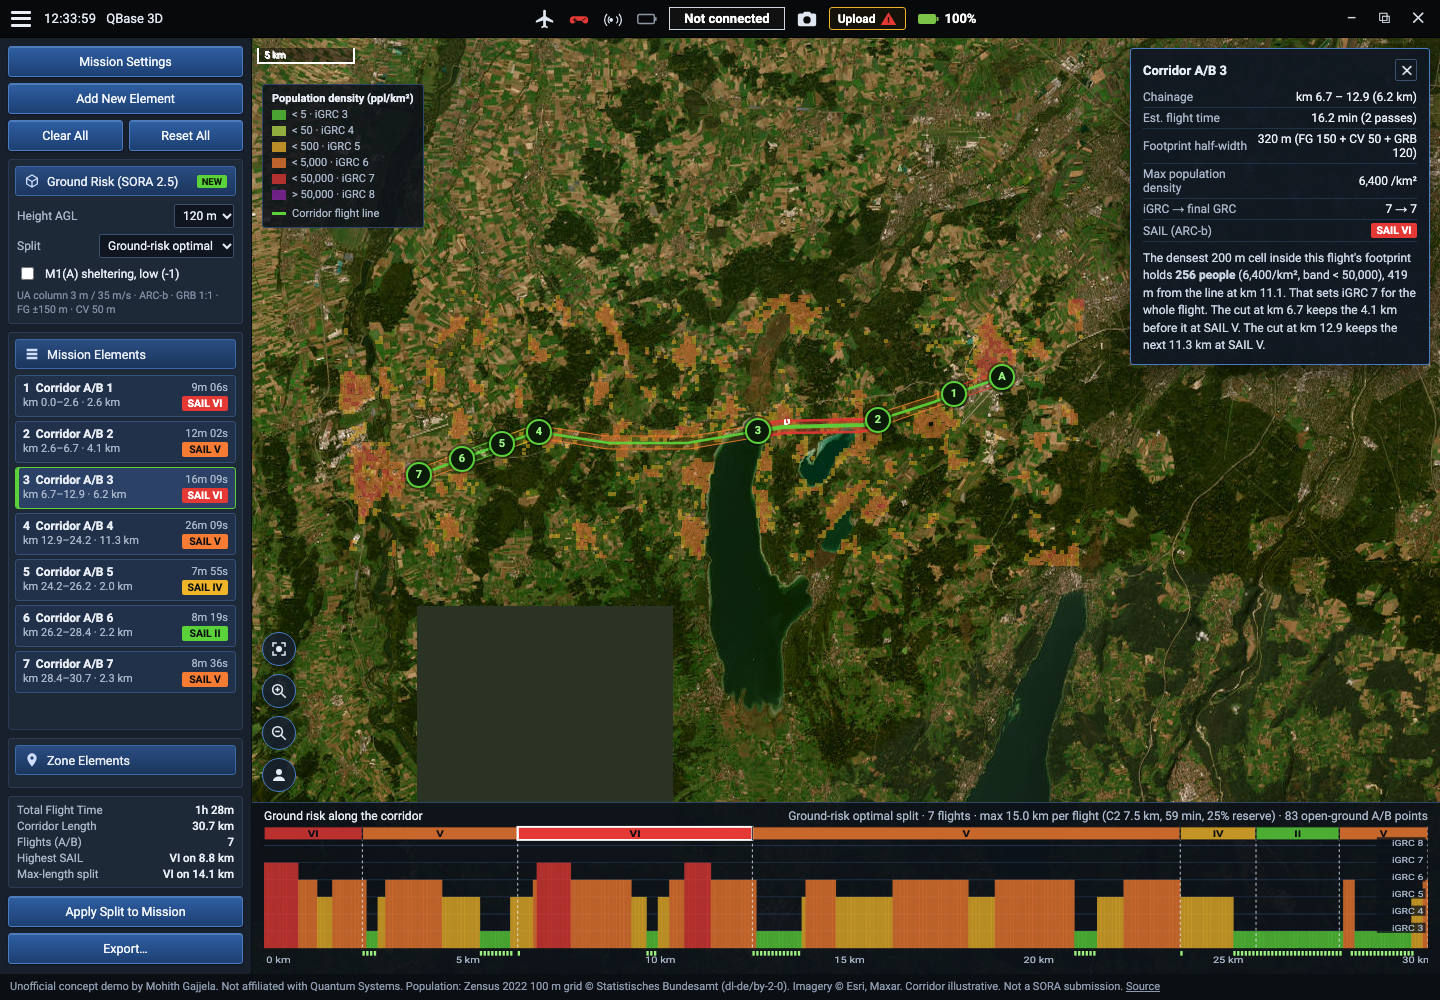
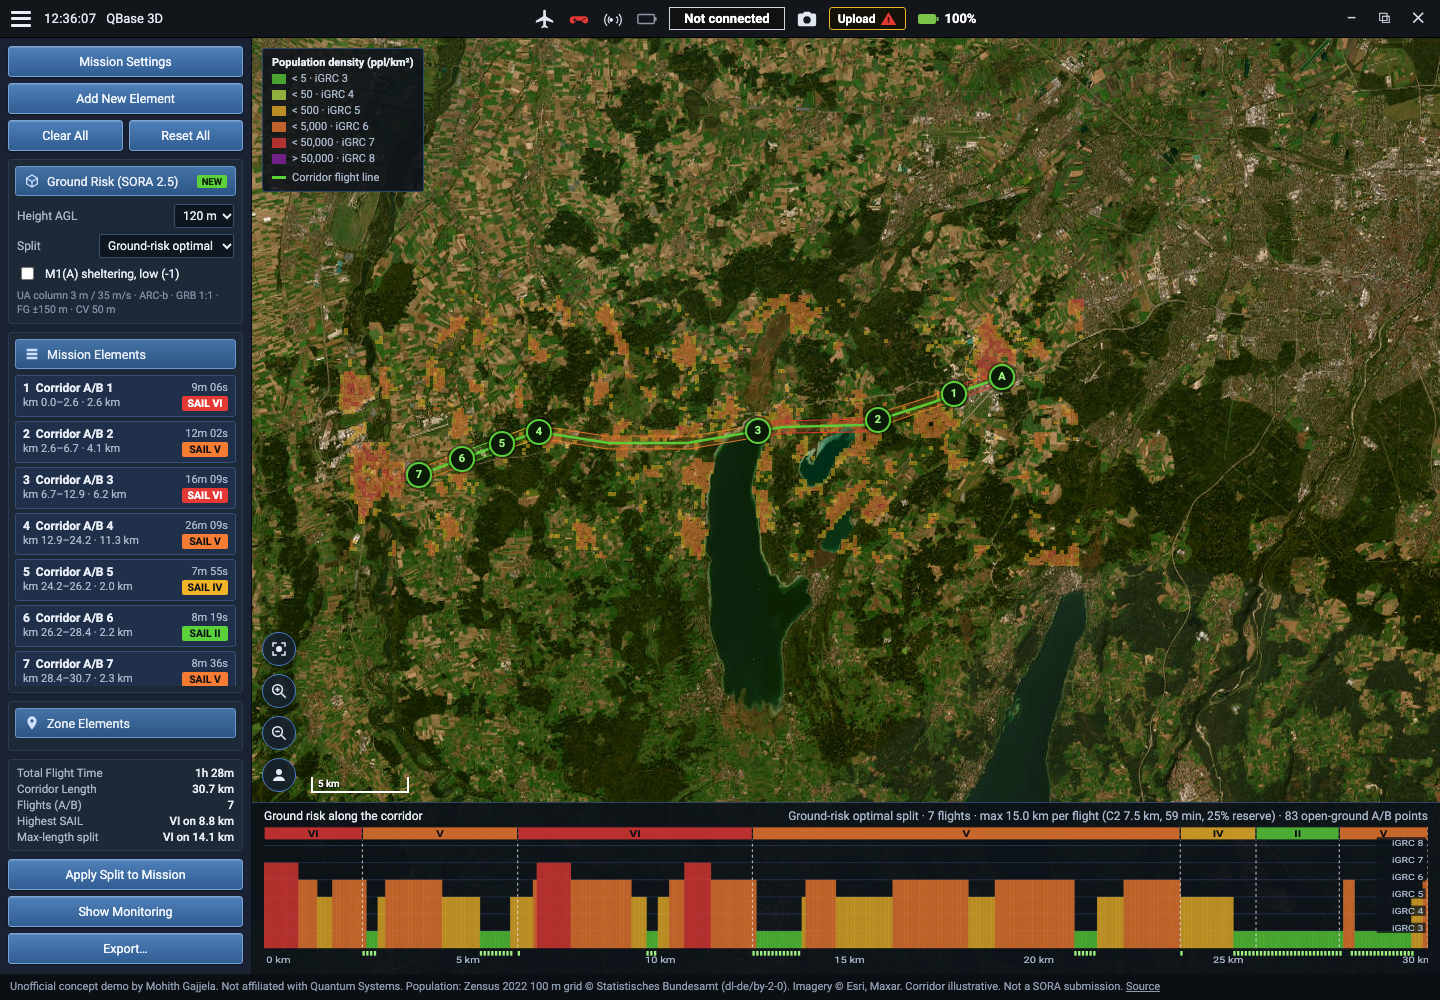
Match QBase 3D colours, scale bar and panel buttons

diff --git a/styles.css b/styles.css
@@ -2,14 +2,14 @@
    (optron.com QBase_photo_05): black title bar, dark navy planning panel with
    bevelled blue buttons and element cards, green mission geometry on imagery. */
 :root {
-  --title: #08090b;
-  --panel: #18202c;
+  --title: #12161b;
+  --panel: #1a2133;
   --panel-2: #1e2938;
-  --card: #22314a;
+  --card: #20304a;
   --card-hi: #2b4166;
-  --btn-1: #2f5fa3;
-  --btn-2: #1d3f72;
-  --btn-bd: #4a7cc4;
+  --btn-1: #4f80b8;
+  --btn-2: #305d92;
+  --btn-bd: #79a2d4;
   --txt: #e8edf5;
   --txt-2: #a9b6c9;
   --green: #5bd23a;
@@ -51,7 +51,7 @@ button, select, input { font: inherit; color: inherit; }
 .qb.on { background: linear-gradient(180deg, #3f8a2c, #2a6a1c); border-color: #6cc24a; }
 .grp { background: var(--panel-2); border: 1px solid #2b3a52; border-radius: 3px; padding: 6px; }
 .grp.grow { flex: 1; min-height: 160px; display: flex; flex-direction: column; }
-.grp-h { display: flex; align-items: center; gap: 7px; background: linear-gradient(180deg, #2a4d82, #1b355d); border: 1px solid #3c68a8; padding: 6px 8px; border-radius: 3px; font-size: 12.5px; margin-bottom: 6px; }
+.grp-h { display: flex; align-items: center; gap: 7px; background: linear-gradient(180deg, #4473a6, #2c5584); border: 1px solid #6b97cc; padding: 6px 8px; border-radius: 3px; font-size: 12.5px; margin-bottom: 6px; }
 .grp-h svg { width: 16px; height: 16px; color: #cfe0ff; }
 .new { margin-left: auto; font-size: 9.5px; font-weight: 700; color: #0b1a07; background: var(--green); padding: 1px 5px; border-radius: 2px; }
 .gr { display: flex; flex-direction: column; gap: 6px; padding: 2px 2px 0; }
@@ -105,3 +105,6 @@ button, select, input { font: inherit; color: inherit; }
 .leaflet-control-scale-line { background: rgba(0,0,0,.45); color: #fff; border-color: #fff; }
 .mk { width: 26px; height: 26px; border-radius: 50%; background: #0c1a08; border: 2px solid var(--green); color: var(--green-2); font-weight: 700; font-size: 11px; display: grid; place-items: center; box-shadow: 0 0 0 2px rgba(0,0,0,.4); }
 :focus-visible { outline: 2px solid var(--green); outline-offset: 1px; }
+.leaflet-bottom.leaflet-left { bottom: 176px; left: 54px; }
+.leaflet-control-scale-line { background: transparent; color: #fff; border: 2px solid #fff; border-top: 0; font-weight: 500; text-shadow: 0 1px 2px #000; }
+.legend { top: 10px; }

diff --git a/index.html b/index.html
@@ -53,7 +53,7 @@
           <div class="grp-h"><svg viewBox="0 0 24 24"><path d="M12 2a7 7 0 0 0-7 7c0 5 7 13 7 13s7-8 7-13a7 7 0 0 0-7-7zm0 9.5A2.5 2.5 0 1 1 12 6.5a2.5 2.5 0 0 1 0 5z" fill="currentColor"/></svg>Zone Elements</div>
         </section>
         <div class="totals" id="totals"></div>
-        <div class="btns"><button class="qb wide" id="apply">Apply Split to Mission</button><button class="qb wide" id="exportBtn" aria-haspopup="menu">Export…</button>
+        <div class="btns"><button class="qb wide" id="apply">Apply Split to Mission</button><button class="qb wide" data-soon>Show Monitoring</button><button class="qb wide" id="exportBtn" aria-haspopup="menu">Export…</button>
           <div class="menu" id="menu" hidden><button data-x="json">Flight plan + ground risk (JSON)</button><button data-x="csv">Ground-risk profile (CSV)</button><button data-x="geojson">Flights (GeoJSON)</button></div></div>
       </aside>
 

diff --git a/app.js b/app.js
@@ -56,7 +56,7 @@ async function boot() {
 function initMap() {
   map = L.map('map', { zoomControl: false, preferCanvas: true, attributionControl: false });
   L.tileLayer('https://server.arcgisonline.com/ArcGIS/rest/services/World_Imagery/MapServer/tile/{z}/{y}/{x}', { maxZoom: 18 }).addTo(map);
-  L.control.scale({ imperial: false, position: 'topleft' }).addTo(map);
+  L.control.scale({ imperial: false, position: 'bottomleft' }).addTo(map);
   // population layer: 200 m cells, coloured by SORA density band
   const g = L.layerGroup();
   for (const [i, j, p] of POP.cells) {
